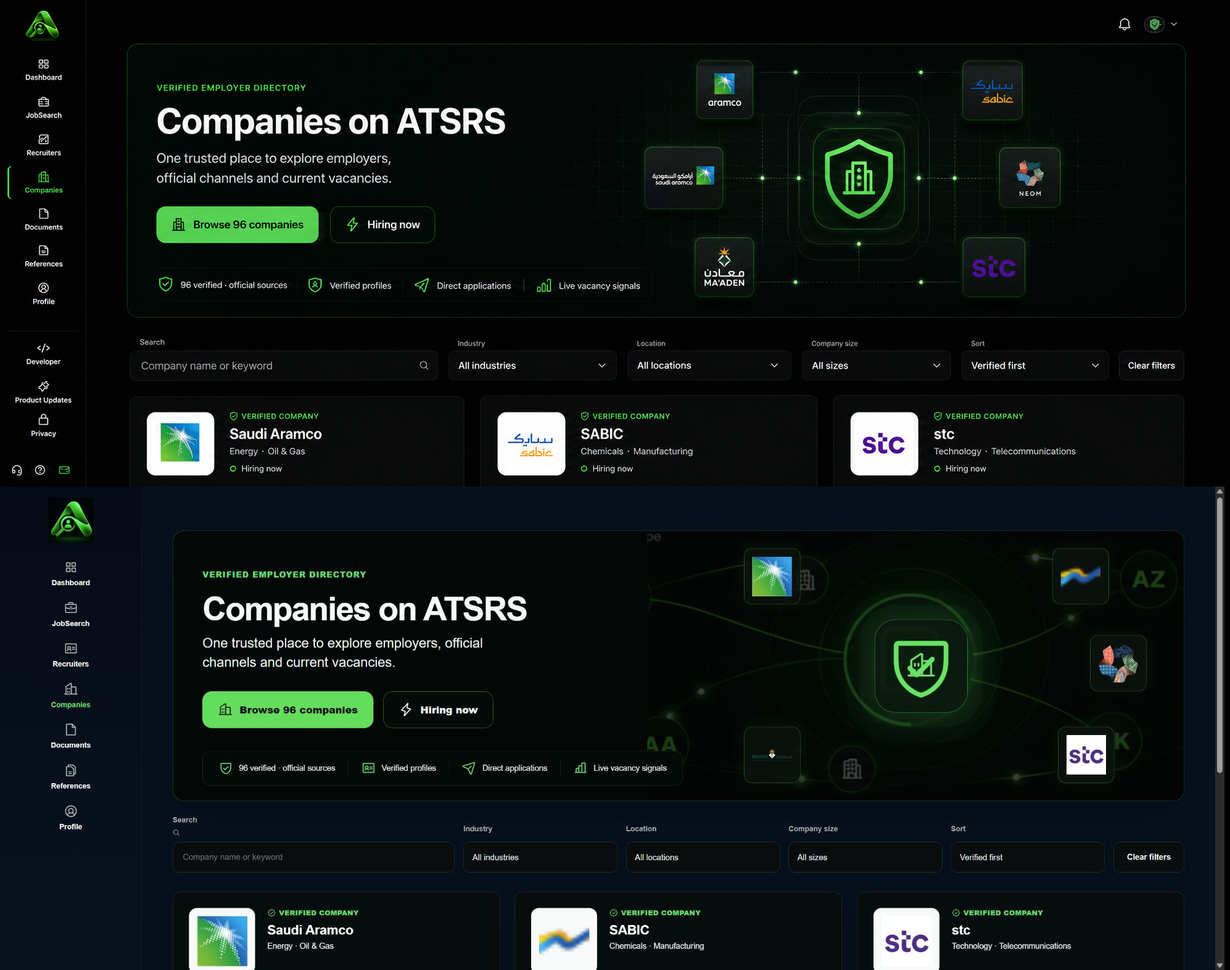
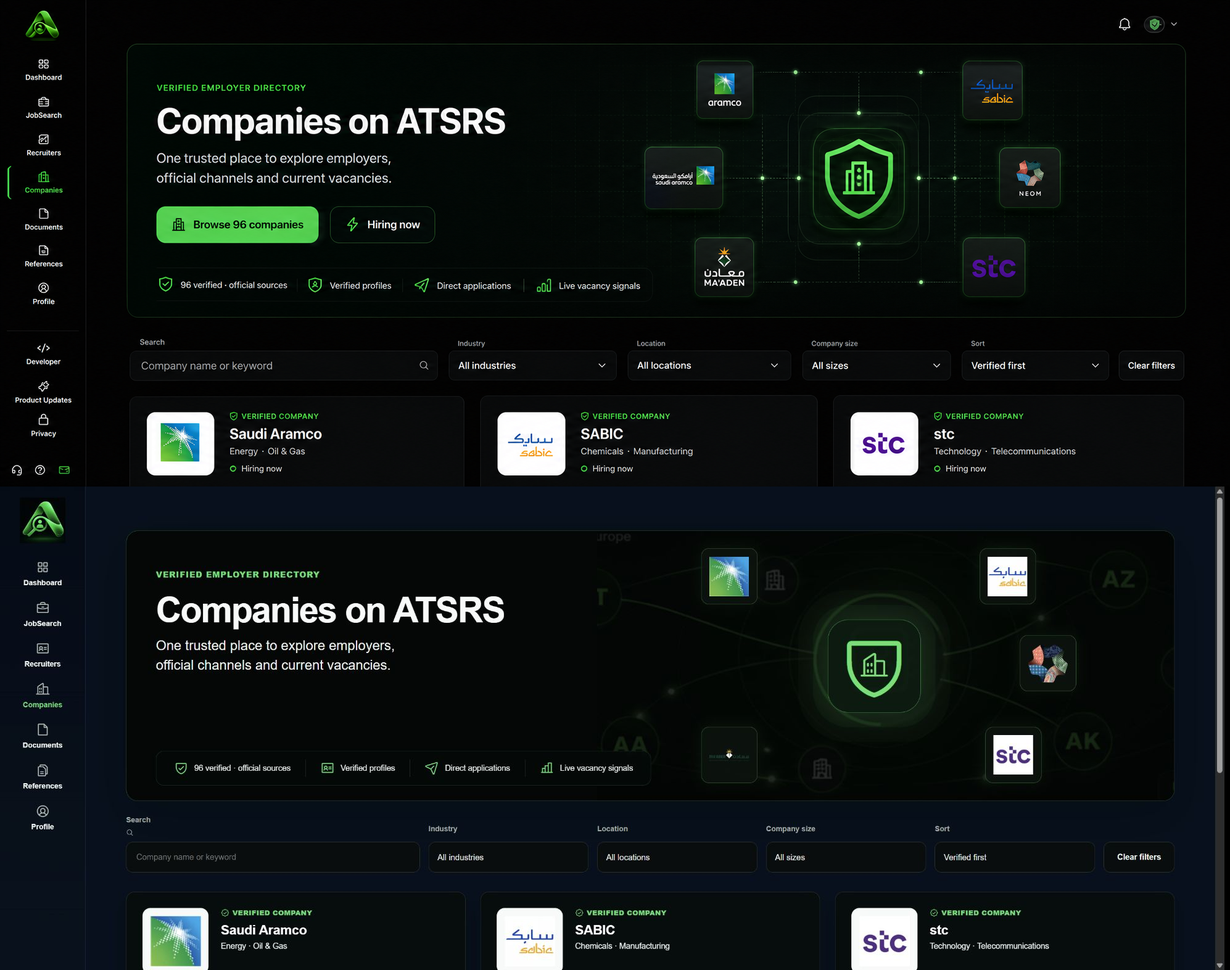
Match company directory reference layout

diff --git a/css/company-directory-v6034.css b/css/company-directory-v6034.css
@@ -1,37 +1,33 @@
 /* ATSRS Companies Directory V6034 — verified employer network. */
 body:has(#employersPage:not(.hidden)) #app.app:not(.hidden)>.main>#pageTitle{display:none!important}
-#employersPage.employers-page{gap:24px;width:100%;max-width:1720px;margin:0 auto;padding:0 0 42px}
-#employersPage .company-directory-hero{position:relative;display:grid;grid-template-columns:minmax(560px,.92fr) minmax(620px,1.08fr);align-items:stretch;gap:28px;min-height:442px;padding:0;overflow:hidden;border:1px solid rgba(72,212,107,.32);border-radius:19px;background:#030706;box-shadow:0 24px 70px rgba(0,0,0,.2)}
-#employersPage .company-hero-copy{position:relative;z-index:2;display:flex;flex-direction:column;min-width:0;padding:62px 0 25px 48px}
-#employersPage .company-hero-eyebrow{color:#48df70;font-size:13px;font-weight:900;letter-spacing:.08em;text-transform:uppercase}
-#employersPage .company-hero-copy h1{margin:20px 0 12px!important;color:#f7faf8!important;-webkit-text-fill-color:#f7faf8!important;font-size:54px!important;line-height:1.02!important;letter-spacing:-.035em!important}
-#employersPage .company-hero-copy>p{max-width:520px;margin:0!important;color:#edf2ef!important;font-size:22px!important;line-height:1.45!important}
-#employersPage .company-hero-actions{display:flex;align-items:center;gap:16px;margin-top:31px}
-html[data-theme] body #app.app:not(.hidden) #employersPage .company-hero-actions button{display:inline-flex!important;align-items:center!important;justify-content:center!important;gap:12px!important;width:auto!important;min-height:60px!important;margin:0!important;padding:0 25px!important;border:1px solid rgba(72,212,107,.45)!important;border-radius:15px!important;background:rgba(3,12,7,.7)!important;color:#f6faf7!important;font-size:16px!important;font-weight:800!important;box-shadow:none!important}
-html[data-theme] body #app.app:not(.hidden) #employersPage .company-hero-actions button:first-child{border-color:#48df70!important;background:#4cdd63!important;color:#061008!important}
-#employersPage .company-hero-actions button i{font-size:23px}
-#employersPage .company-trust-strip{display:flex;align-items:center;gap:0;width:max-content;max-width:calc(100% + 250px);margin-top:auto;padding:13px 5px;border:1px solid rgba(72,212,107,.18);border-radius:13px;background:rgba(3,10,7,.66);backdrop-filter:blur(12px);-webkit-backdrop-filter:blur(12px)}
-#employersPage .company-trust-strip>span{display:flex;align-items:center;gap:10px;min-height:29px;padding:0 21px;border-left:1px solid rgba(255,255,255,.14);color:#e9efeb;font-size:13px;white-space:nowrap}
+#employersPage.employers-page{gap:24px;width:calc(100% - 64px);max-width:none;margin:0 auto;padding:0 0 42px}
+#employersPage .company-directory-hero{position:relative;display:grid;grid-template-columns:minmax(560px,.88fr) minmax(620px,1.12fr);align-items:stretch;gap:28px;min-height:clamp(442px,16vw,552px);padding:0;overflow:hidden;border:1px solid rgba(72,212,107,.32);border-radius:19px;background:#030706;box-shadow:0 24px 70px rgba(0,0,0,.2)}
+#employersPage .company-hero-copy{position:relative;z-index:2;display:flex;flex-direction:column;min-width:0;padding:clamp(62px,2.3vw,78px) 0 clamp(25px,.9vw,31px) clamp(48px,1.8vw,60px)}
+#employersPage .company-hero-eyebrow{color:#48df70;font-size:clamp(13px,.48vw,16px);font-weight:900;letter-spacing:.08em;text-transform:uppercase}
+#employersPage .company-hero-copy h1{margin:clamp(20px,.75vw,25px) 0 12px!important;color:#f7faf8!important;-webkit-text-fill-color:#f7faf8!important;font-size:clamp(58px,2.1vw,72px)!important;line-height:1.02!important;letter-spacing:-.035em!important;white-space:nowrap}
+#employersPage .company-hero-copy>p{max-width:clamp(400px,14.6vw,500px);margin:0!important;color:#edf2ef!important;font-size:clamp(22px,.8vw,27px)!important;line-height:1.45!important}
+#employersPage .company-trust-strip{display:flex;align-items:center;gap:0;width:max-content;max-width:calc(100% + 250px);margin-top:auto;padding:clamp(13px,.48vw,16px) 5px;border:1px solid rgba(72,212,107,.18);border-radius:13px;background:rgba(3,10,7,.66);backdrop-filter:blur(12px);-webkit-backdrop-filter:blur(12px)}
+#employersPage .company-trust-strip>span{display:flex;align-items:center;gap:10px;min-height:clamp(29px,1.05vw,36px);padding:0 clamp(24px,.76vw,26px);border-left:1px solid rgba(255,255,255,.14);color:#e9efeb;font-size:clamp(13px,.48vw,16px);white-space:nowrap}
 #employersPage .company-trust-strip>span:first-child{border-left:0}
 #employersPage .company-trust-strip i{color:#48df70;font-size:23px}
 #employersPage .company-trust-strip strong{font-weight:500}
 #employersPage .company-hero-network{position:relative;min-width:0;overflow:hidden;background:#020605}
-#employersPage .company-network-backdrop{position:absolute;inset:-24px -40px -22px -50px;background:url('../assets/recruiters/recruiter-directory-orbit-v1.png') center/cover no-repeat;opacity:.24;filter:contrast(1.15) saturate(1.1)}
-#employersPage .company-network-core{position:absolute;z-index:2;top:50%;left:51%;display:grid;place-items:center;width:152px;height:152px;border:1px solid rgba(72,223,112,.5);border-radius:34px;background:rgba(9,29,16,.88);color:#55e16d;box-shadow:0 0 0 24px rgba(72,223,112,.035),0 0 0 48px rgba(72,223,112,.025),0 0 48px rgba(72,223,112,.19);transform:translate(-50%,-50%)}
-#employersPage .company-network-core .ph-shield{font-size:118px}
-#employersPage .company-network-core .ph-buildings{position:absolute;font-size:47px}
-#employersPage .company-network-logo{position:absolute;z-index:3;display:grid;place-items:center;width:92px;height:92px;padding:13px;overflow:hidden;border:1px solid rgba(72,212,107,.35);border-radius:13px;background:rgba(10,18,13,.9);box-shadow:0 8px 30px rgba(0,0,0,.35),0 0 22px rgba(72,212,107,.09)}
+#employersPage .company-network-backdrop{position:absolute;inset:-24px -40px -22px -50px;background:url('../assets/recruiters/recruiter-directory-orbit-v1.png') center/cover no-repeat;opacity:.14;filter:contrast(1.08) saturate(1.05)}
+#employersPage .company-network-core{position:absolute;z-index:2;top:50%;left:48%;display:grid;place-items:center;width:clamp(152px,5.55vw,190px);height:clamp(152px,5.55vw,190px);border:1px solid rgba(72,223,112,.5);border-radius:clamp(34px,1.25vw,42px);background:rgba(9,29,16,.88);color:#55e16d;box-shadow:0 0 0 24px rgba(72,223,112,.035),0 0 0 48px rgba(72,223,112,.025),0 0 48px rgba(72,223,112,.19);transform:translate(-50%,-50%)}
+#employersPage .company-network-core .ph-shield{font-size:clamp(118px,4.3vw,148px)}
+#employersPage .company-network-core .ph-buildings{position:absolute;font-size:clamp(47px,1.72vw,59px)}
+#employersPage .company-network-logo{position:absolute;z-index:3;display:grid;place-items:center;width:clamp(92px,3.35vw,115px);height:clamp(92px,3.35vw,115px);padding:clamp(13px,.47vw,16px);overflow:hidden;border:1px solid rgba(72,212,107,.35);border-radius:13px;background:rgba(10,18,13,.9);box-shadow:0 8px 30px rgba(0,0,0,.35),0 0 22px rgba(72,212,107,.09)}
 #employersPage .company-network-logo img{display:block;width:100%;height:100%;object-fit:contain}
-#employersPage .company-network-aramco{top:28px;left:18%}#employersPage .company-network-sabic{top:28px;right:14%}#employersPage .company-network-neom{top:170px;right:7%}#employersPage .company-network-maaden{bottom:29px;left:18%}#employersPage .company-network-stc{right:13%;bottom:29px}
+#employersPage .company-network-aramco{top:28px;left:18%}#employersPage .company-network-sabic{top:28px;right:24%}#employersPage .company-network-neom{top:170px;right:17%}#employersPage .company-network-maaden{bottom:29px;left:18%}#employersPage .company-network-stc{right:23%;bottom:29px}
 #employersPage .employers-toolbar{grid-template-columns:minmax(300px,1.65fr) repeat(4,minmax(150px,.9fr)) 116px;align-items:end;gap:14px;padding:0;border:0;border-radius:0;background:transparent}
 #employersPage .employers-toolbar :is(.atsrs-search-field,.employers-sector){display:grid;gap:7px;color:#a9b3ad;font-size:12px;font-weight:700}
-#employersPage .employers-toolbar :is(input,select),html[data-theme] body #app.app:not(.hidden) #employersPage #employersClearFilters{height:50px!important;min-height:50px!important;border:1px solid #29322d!important;border-radius:11px!important;background:rgba(9,13,11,.88)!important;color:#edf2ef!important;box-shadow:none!important}
+#employersPage .employers-toolbar :is(input,select),html[data-theme] body #app.app:not(.hidden) #employersPage #employersClearFilters{height:clamp(50px,1.8vw,62px)!important;min-height:clamp(50px,1.8vw,62px)!important;border:1px solid #29322d!important;border-radius:11px!important;background:rgba(9,13,11,.88)!important;color:#edf2ef!important;box-shadow:none!important}
 #employersPage .employers-toolbar input{padding:0 45px 0 16px!important}
 #employersPage .employers-toolbar select{padding:0 39px 0 14px!important}
 html[data-theme] body #app.app:not(.hidden) #employersPage #employersClearFilters{top:0!important;width:116px!important;padding:0 13px!important;font-size:13px!important}
 #employersPage .employers-message:empty{display:none}
 #employersPage .employers-grid{grid-template-columns:repeat(3,minmax(0,1fr));gap:18px 24px}
-#employersPage .employer-card{grid-template-columns:108px minmax(0,1fr)!important;grid-template-rows:auto auto auto!important;column-gap:20px!important;row-gap:8px!important;min-height:232px!important;padding:26px 26px 18px!important;border:1px solid rgba(135,151,142,.25)!important;border-radius:14px!important;background:rgba(7,11,9,.82)!important;box-shadow:0 15px 34px rgba(0,0,0,.18)!important;backdrop-filter:blur(12px);-webkit-backdrop-filter:blur(12px)}
+#employersPage .employer-card{grid-template-columns:108px minmax(0,1fr)!important;grid-template-rows:auto auto auto!important;column-gap:20px!important;row-gap:8px!important;min-height:clamp(232px,8.45vw,290px)!important;padding:clamp(26px,.93vw,32px) clamp(26px,.93vw,32px) clamp(18px,.67vw,23px)!important;border:1px solid rgba(135,151,142,.25)!important;border-radius:14px!important;background:rgba(7,11,9,.82)!important;box-shadow:0 15px 34px rgba(0,0,0,.18)!important;backdrop-filter:blur(12px);-webkit-backdrop-filter:blur(12px)}
 #employersPage .employer-card::before{width:0!important}
 #employersPage .employer-card-head{display:contents!important}
 #employersPage .employer-mark{grid-column:1!important;grid-row:1!important;width:108px!important;height:108px!important;padding:12px!important;border-color:rgba(72,212,107,.24)!important;border-radius:13px!important;background:#f8faf9!important}
@@ -52,7 +48,6 @@ html[data-theme] body #app.app:not(.hidden) #employersPage #employersClearFilter
 #employersPage .employer-actions :is(a:nth-child(3),a:nth-child(4)){display:none!important}
 #employersPage .employer-actions .employer-action-jobs{grid-column:auto!important;justify-content:center!important;width:100%!important;min-width:0!important;border:1px solid rgba(72,212,107,.35)!important;background:rgba(72,212,107,.06)!important}
 #employersPage .employers-pagination{justify-content:center;margin-top:6px}
-#employersPage .company-hero-actions button.active{outline:2px solid rgba(72,223,112,.45);outline-offset:3px}
 html[data-theme="light"] #employersPage .company-directory-hero{border-color:#b9cee8;background:#f8fbff;box-shadow:0 22px 55px rgba(35,76,120,.1)}
 html[data-theme="light"] #employersPage .company-hero-copy h1{color:#17335f!important;-webkit-text-fill-color:#17335f!important}
 html[data-theme="light"] #employersPage .company-hero-copy>p{color:#526b8d!important}
@@ -69,8 +64,7 @@ html[data-theme="light"] #employersPage .employer-card{border-color:#d3deeb!impo
 html[data-theme="light"] #employersPage .employer-sector-label{color:#3f5879!important}
 html[data-theme="light"] #employersPage .employer-actions{border-color:#dce5ef!important}
 @media(max-width:1420px){#employersPage .company-directory-hero{grid-template-columns:minmax(500px,.92fr) minmax(520px,1.08fr)}#employersPage .company-hero-copy{padding-left:34px}#employersPage .company-hero-copy h1{font-size:46px!important}#employersPage .company-trust-strip>span{padding-inline:14px}#employersPage .employers-toolbar{grid-template-columns:minmax(280px,1.5fr) repeat(2,minmax(150px,1fr))}#employersPage .employers-toolbar>:nth-child(4),#employersPage .employers-toolbar>:nth-child(5){grid-row:2}html[data-theme] body #app.app:not(.hidden) #employersPage #employersClearFilters{grid-row:2}.employers-grid{grid-template-columns:repeat(2,minmax(0,1fr))!important}}
-@media(max-width:980px){#employersPage .company-directory-hero{grid-template-columns:1fr;min-height:0}#employersPage .company-hero-copy{padding:42px 28px 28px}#employersPage .company-hero-network{min-height:360px}#employersPage .company-trust-strip{width:100%;max-width:100%;margin-top:30px;overflow-x:auto}#employersPage .employers-toolbar{grid-template-columns:1fr 1fr}html[data-theme] body #app.app:not(.hidden) #employersPage #employersClearFilters{grid-row:auto;width:100%!important}.employers-grid{grid-template-columns:1fr!important}}
-@media(max-width:620px){#employersPage .company-hero-copy h1{font-size:38px!important}#employersPage .company-hero-copy>p{font-size:17px!important}#employersPage .company-hero-actions{align-items:stretch;flex-direction:column}html[data-theme] body #app.app:not(.hidden) #employersPage .company-hero-actions button{width:100%!important}#employersPage .company-hero-network{min-height:310px}#employersPage .company-network-logo{width:70px;height:70px;padding:9px}#employersPage .company-network-core{width:120px;height:120px}#employersPage .company-network-core .ph-shield{font-size:90px}#employersPage .company-network-core .ph-buildings{font-size:35px}#employersPage .employers-toolbar{grid-template-columns:1fr}#employersPage .employer-card{grid-template-columns:82px minmax(0,1fr)!important;padding:20px!important}#employersPage .employer-mark{width:82px!important;height:82px!important}#employersPage .employer-logo{width:62px!important;height:62px!important}}
+@media(max-width:980px){#employersPage.employers-page{width:100%}#employersPage .company-directory-hero{grid-template-columns:1fr;min-height:0}#employersPage .company-hero-copy{padding:42px 28px 28px}#employersPage .company-hero-network{min-height:360px}#employersPage .company-trust-strip{width:100%;max-width:100%;margin-top:30px;overflow-x:auto}#employersPage .employers-toolbar{grid-template-columns:1fr 1fr}html[data-theme] body #app.app:not(.hidden) #employersPage #employersClearFilters{grid-row:auto;width:100%!important}.employers-grid{grid-template-columns:1fr!important}}
+@media(max-width:620px){#employersPage .company-hero-copy h1{font-size:38px!important}#employersPage .company-hero-copy>p{font-size:17px!important}#employersPage .company-hero-network{min-height:310px}#employersPage .company-network-logo{width:70px;height:70px;padding:9px}#employersPage .company-network-core{width:120px;height:120px}#employersPage .company-network-core .ph-shield{font-size:90px}#employersPage .company-network-core .ph-buildings{font-size:35px}#employersPage .employers-toolbar{grid-template-columns:1fr}#employersPage .employer-card{grid-template-columns:82px minmax(0,1fr)!important;padding:20px!important}#employersPage .employer-mark{width:82px!important;height:82px!important}#employersPage .employer-logo{width:62px!important;height:62px!important}}
 html[data-theme="dark"] body:where(.personal-mode,.company-mode) #app#app.app:not(.hidden)>.main #employersPage#employersPage .company-hero-copy h1{color:#f7faf8!important;-webkit-text-fill-color:#f7faf8!important}
 html[data-theme="light"] body:where(.personal-mode,.company-mode) #app#app.app:not(.hidden)>.main #employersPage#employersPage .company-hero-copy h1{color:#17335f!important;-webkit-text-fill-color:#17335f!important}
-html[data-theme] body #app#app.app:not(.hidden)>.main #employersPage#employersPage .company-hero-actions button:first-child{border-color:#48df70!important;background:#4cdd63!important;color:#061008!important;-webkit-text-fill-color:#061008!important}

diff --git a/qa/company-directory-v6034-preview.html b/qa/company-directory-v6034-preview.html
@@ -1,10 +1,10 @@
 <!doctype html><html lang="en" data-theme="dark"><head><meta charset="utf-8"><meta name="viewport" content="width=device-width,initial-scale=1"><title>Companies Directory V6034</title>
 <link rel="stylesheet" href="../css/base.css"><link rel="stylesheet" href="../css/theme.css"><link rel="stylesheet" href="../css/jobs-prototype.css"><link rel="stylesheet" href="../css/employers.css"><link rel="stylesheet" href="../css/company-directory-v6034.css"><link rel="stylesheet" href="../vendor/phosphor-icons/phosphor-regular.css">
-<style>body{margin:0;background:#020605}.app{display:grid!important;grid-template-columns:140px minmax(0,1fr);min-height:100vh}.sidebar{position:relative!important;width:140px!important;display:flex;flex-direction:column;align-items:center;padding:18px 10px;border-right:1px solid #1b2520}.sidebar img{width:74px}.sidebar nav{display:grid;gap:22px;margin-top:28px;text-align:center}.sidebar a{color:#eef4f0;text-decoration:none;font:700 12px/1.2 Arial}.sidebar i{display:block;margin-bottom:7px;color:#aebbb3;font-size:23px}.sidebar a.active{color:#48df70}.main{padding:72px 50px 40px!important;min-width:0}.employers-page{display:grid!important}.employer-actions a:nth-child(1),.employer-actions a:nth-child(2){display:flex;align-items:center;justify-content:center;color:#eaf1ec;text-decoration:none;border:1px solid #28332d;border-radius:9px}.jobs-pagination{display:flex}.jobs-page-button{min-width:38px;height:38px;border:1px solid #2b3730;border-radius:9px;background:#0a0f0c;color:#eaf1ec}.jobs-page-button.active{border-color:#48df70;color:#48df70}</style></head><body>
-<div id="app" class="app"><aside class="sidebar"><img src="../assets/branding/atsrs-mark-green.png" alt="ATSRS"><nav><a href="#"><i class="ph ph-squares-four"></i>Dashboard</a><a href="#"><i class="ph ph-briefcase"></i>JobSearch</a><a href="#"><i class="ph ph-identification-card"></i>Recruiters</a><a class="active" href="#"><i class="ph ph-buildings"></i>Companies</a><a href="#"><i class="ph ph-file"></i>Documents</a><a href="#"><i class="ph ph-files"></i>References</a><a href="#"><i class="ph ph-user-circle"></i>Profile</a></nav></aside><main class="main">
+<style>body{margin:0;background:#020605}#app.app{display:grid!important;grid-template-columns:140px minmax(0,1fr)!important;min-height:100vh}.app>.sidebar{position:relative!important;width:140px!important;min-width:140px!important;display:flex;flex-direction:column;align-items:center;padding:18px 10px;border-right:1px solid #1b2520}.sidebar img{width:74px}.sidebar nav{display:grid;gap:22px;margin-top:28px;text-align:center}.sidebar a{color:#eef4f0;text-decoration:none;font:700 12px/1.2 Arial}.sidebar i{display:block;margin-bottom:7px;color:#aebbb3;font-size:23px}.sidebar a.active{color:#48df70}.main{padding:72px 34px 40px!important;min-width:0}.employers-page{display:grid!important}.employer-actions a:nth-child(1),.employer-actions a:nth-child(2){display:flex;align-items:center;justify-content:center;color:#eaf1ec;text-decoration:none;border:1px solid #28332d;border-radius:9px}.jobs-pagination{display:flex}.jobs-page-button{min-width:38px;height:38px;border:1px solid #2b3730;border-radius:9px;background:#0a0f0c;color:#eaf1ec}.jobs-page-button.active{border-color:#48df70;color:#48df70}</style></head><body>
+<div id="app" class="app" style="grid-template-columns:140px minmax(0,1fr)!important"><aside class="sidebar" style="width:140px!important;min-width:140px!important"><img src="../assets/branding/atsrs-mark-green.png" alt="ATSRS"><nav><a href="#"><i class="ph ph-squares-four"></i>Dashboard</a><a href="#"><i class="ph ph-briefcase"></i>JobSearch</a><a href="#"><i class="ph ph-identification-card"></i>Recruiters</a><a class="active" href="#"><i class="ph ph-buildings"></i>Companies</a><a href="#"><i class="ph ph-file"></i>Documents</a><a href="#"><i class="ph ph-files"></i>References</a><a href="#"><i class="ph ph-user-circle"></i>Profile</a></nav></aside><main class="main">
 <section id="employersPage" class="employers-page" aria-label="Companies">
-  <header class="employers-hero company-directory-hero"><div class="company-hero-copy"><span class="company-hero-eyebrow">Verified employer directory</span><h1>Companies on ATSRS</h1><p>One trusted place to explore employers, official channels and current vacancies.</p><div class="company-hero-actions"><button><i class="ph ph-buildings"></i><span>Browse 96 companies</span></button><button><i class="ph ph-lightning"></i><span>Hiring now</span></button></div><div class="company-trust-strip"><span><i class="ph ph-shield-check"></i><strong>96 verified · official sources</strong></span><span><i class="ph ph-identification-card"></i>Verified profiles</span><span><i class="ph ph-paper-plane-tilt"></i>Direct applications</span><span><i class="ph ph-chart-bar"></i>Live vacancy signals</span></div></div><div class="company-hero-network"><div class="company-network-backdrop"></div><div class="company-network-core"><i class="ph ph-shield"></i><i class="ph ph-buildings"></i></div><div class="company-network-logo company-network-aramco"><img src="../assets/company-logos/saudi-aramco.jpg" alt="Saudi Aramco"></div><div class="company-network-logo company-network-sabic"><img src="../assets/company-logos/sabic.png" alt="SABIC"></div><div class="company-network-logo company-network-neom"><img src="../assets/company-logos/neom.png" alt="NEOM"></div><div class="company-network-logo company-network-maaden"><img src="../assets/company-logos/maaden.svg" alt="Ma'aden"></div><div class="company-network-logo company-network-stc"><img src="../assets/company-logos/stc.jpg" alt="stc"></div></div></header>
+  <header class="employers-hero company-directory-hero"><div class="company-hero-copy"><span class="company-hero-eyebrow">Verified employer directory</span><h1>Companies on ATSRS</h1><p>One trusted place to explore employers, official channels and current vacancies.</p><div class="company-trust-strip"><span><i class="ph ph-shield-check"></i><strong>96 verified · official sources</strong></span><span><i class="ph ph-identification-card"></i>Verified profiles</span><span><i class="ph ph-paper-plane-tilt"></i>Direct applications</span><span><i class="ph ph-chart-bar"></i>Live vacancy signals</span></div></div><div class="company-hero-network"><div class="company-network-backdrop"></div><div class="company-network-core"><i class="ph ph-shield"></i><i class="ph ph-buildings"></i></div><div class="company-network-logo company-network-aramco"><img src="../assets/company-logos/saudi-aramco.jpg" alt="Saudi Aramco"></div><div class="company-network-logo company-network-sabic"><img src="../assets/company-logos/sabic-reference.jpg" alt="SABIC"></div><div class="company-network-logo company-network-neom"><img src="../assets/company-logos/neom.png" alt="NEOM"></div><div class="company-network-logo company-network-maaden"><img src="../assets/company-logos/maaden.svg" alt="Ma'aden"></div><div class="company-network-logo company-network-stc"><img src="../assets/company-logos/stc.jpg" alt="stc"></div></div></header>
   <div class="employers-toolbar"><label class="atsrs-search-field"><span>Search</span><span class="atsrs-search-control"><i class="ph ph-magnifying-glass"></i><input placeholder="Company name or keyword"></span></label><label class="employers-sector"><span>Industry</span><select><option>All industries</option></select></label><label class="employers-sector"><span>Location</span><select><option>All locations</option></select></label><label class="employers-sector"><span>Company size</span><select><option>All sizes</option></select></label><label class="employers-sector"><span>Sort</span><select><option>Verified first</option></select></label><button id="employersClearFilters">Clear filters</button></div>
   <div class="employers-grid" id="employersGrid"></div><nav class="jobs-pagination employers-pagination"><button class="jobs-page-button active">1</button><button class="jobs-page-button">2</button><button class="jobs-page-button">3</button><button class="jobs-page-button">Next</button></nav>
 </section></main></div>
-<script>const data=[['Saudi Aramco','Energy · Oil & Gas','saudi-aramco.jpg'],['SABIC','Chemicals · Manufacturing','sabic.png'],['stc','Technology · Telecommunications','stc.jpg'],['NEOM','Development · Infrastructure','neom.png'],["Ma'aden",'Mining · Materials','maaden.svg'],['Airswift','Workforce Solutions','']];const grid=document.querySelector('#employersGrid');data.forEach(([name,sector,logo],i)=>{const a=document.createElement('article');a.className='employer-card';a.innerHTML=`<div class="employer-card-head"><div class="employer-mark">${logo?`<img class="employer-logo" src="../assets/company-logos/${logo}" alt="">`:`<span class="employer-mark-fallback">${name.slice(0,2).toUpperCase()}</span>`}</div><div class="employer-card-copy"><span class="employer-source"><i class="ph ph-seal-check"></i> Verified company</span><h4>${name}</h4><strong class="employer-sector-label">${sector}</strong><p></p></div></div><div class="employer-vacancy-panel"><span><i class="ph ph-circle"></i>${i<3?'Hiring now':'Official careers source'}</span><strong>0</strong><span></span></div><div class="employer-tags"></div><div class="employer-actions"><a href="#"><i class="ph ph-arrow-square-out"></i><span>Website</span></a><a href="#"><i class="ph ph-briefcase"></i><span>Careers</span></a></div>`;grid.append(a)});</script></body></html>
+<script>const data=[['Saudi Aramco','Energy · Oil & Gas','saudi-aramco.jpg'],['SABIC','Chemicals · Manufacturing','sabic-reference.jpg'],['stc','Technology · Telecommunications','stc.jpg'],['NEOM','Development · Infrastructure','neom.png'],["Ma'aden",'Mining · Materials','maaden.svg'],['Airswift','Workforce Solutions','']];const grid=document.querySelector('#employersGrid');data.forEach(([name,sector,logo],i)=>{const a=document.createElement('article');a.className='employer-card';a.innerHTML=`<div class="employer-card-head"><div class="employer-mark">${logo?`<img class="employer-logo" src="../assets/company-logos/${logo}" alt="">`:`<span class="employer-mark-fallback">${name.slice(0,2).toUpperCase()}</span>`}</div><div class="employer-card-copy"><span class="employer-source"><i class="ph ph-seal-check"></i> Verified company</span><h4>${name}</h4><strong class="employer-sector-label">${sector}</strong><p></p></div></div><div class="employer-vacancy-panel"><span><i class="ph ph-circle"></i>${i<3?'Hiring now':'Official careers source'}</span><strong>0</strong><span></span></div><div class="employer-tags"></div><div class="employer-actions"><a href="#"><i class="ph ph-arrow-square-out"></i><span>Website</span></a><a href="#"><i class="ph ph-briefcase"></i><span>Careers</span></a></div>`;grid.append(a)});</script></body></html>

diff --git a/index.html b/index.html
@@ -114,7 +114,7 @@ html[data-theme="light"] body{background:#f6f8fb}
 <link rel="stylesheet" href="css/theme-palette-v508.css?v=5849">
 <link rel="stylesheet" href="css/jobs-prototype.css?v=5997">
 <link rel="stylesheet" href="css/employers.css?v=34">
-<link rel="stylesheet" href="css/company-directory-v6034.css?v=6035">
+<link rel="stylesheet" href="css/company-directory-v6034.css?v=6036">
 <link rel="stylesheet" href="css/view-switch-standard-v58144.css?v=58144">
 <link rel="stylesheet" href="css/dark-green-text-standard-v58140.css?v=58140">
 <link rel="stylesheet" href="css/button-content-standard-v58148.css?v=58148">
@@ -991,10 +991,6 @@ body.atsrs-session-pending #atsrsBootScreen{display:flex!important;}
       <span class="company-hero-eyebrow">Verified employer directory</span>
       <h1>Companies on ATSRS</h1>
       <p>One trusted place to explore employers, official channels and current vacancies.</p>
-      <div class="company-hero-actions">
-        <button id="employersBrowseAll" type="button"><i class="ph ph-buildings" aria-hidden="true"></i><span id="employersBrowseAllLabel">Browse companies</span></button>
-        <button id="employersHiringNow" type="button"><i class="ph ph-lightning" aria-hidden="true"></i><span>Hiring now</span></button>
-      </div>
       <div class="company-trust-strip" aria-label="Company directory trust indicators">
         <span><i class="ph ph-shield-check" aria-hidden="true"></i><strong id="employersVisibleCount" aria-live="polite">0 verified</strong></span>
         <span><i class="ph ph-identification-card" aria-hidden="true"></i>Verified profiles</span>
@@ -1006,7 +1002,7 @@ body.atsrs-session-pending #atsrsBootScreen{display:flex!important;}
       <div class="company-network-backdrop" aria-hidden="true"></div>
       <div class="company-network-core" aria-hidden="true"><i class="ph ph-shield"></i><i class="ph ph-buildings"></i></div>
       <div class="company-network-logo company-network-aramco"><img src="assets/company-logos/saudi-aramco.jpg" alt="Saudi Aramco"></div>
-      <div class="company-network-logo company-network-sabic"><img src="assets/company-logos/sabic.png" alt="SABIC"></div>
+      <div class="company-network-logo company-network-sabic"><img src="assets/company-logos/sabic-reference.jpg" alt="SABIC"></div>
       <div class="company-network-logo company-network-neom"><img src="assets/company-logos/neom.png" alt="NEOM"></div>
       <div class="company-network-logo company-network-maaden"><img src="assets/company-logos/maaden.svg" alt="Ma'aden"></div>
       <div class="company-network-logo company-network-stc"><img src="assets/company-logos/stc.jpg" alt="stc"></div>
@@ -2431,7 +2427,7 @@ body.atsrs-session-pending #atsrsBootScreen{display:flex!important;}
 <script src="js/dashboard.js?v=5930"></script>
 <script src="js/company-directory-links.js?v=4"></script>
 <script src="js/company-logo-assets.js?v=1"></script>
-<script src="js/employers.js?v=6034"></script>
+<script src="js/employers.js?v=6036"></script>
 <script src="js/recruiters.js?v=17"></script>
 <script src="js/avatar.js?v=394"></script>
 <script src="js/documents.js?v=410"></script>

diff --git a/js/employers.js b/js/employers.js
@@ -385,7 +385,7 @@
     },
     companyLogos = {
       "Saudi Aramco": "assets/company-logos/saudi-aramco.jpg",
-      SABIC: "assets/company-logos/sabic.png",
+      SABIC: "assets/company-logos/sabic-reference.jpg",
       NEOM: "assets/company-logos/neom.png",
       "Ma'aden": "assets/company-logos/maaden.svg",
       stc: "assets/company-logos/stc.jpg",
@@ -805,8 +805,6 @@
         .sort(function (a, b) { return a.name.localeCompare(b.name); });
       refreshSectorOptions();
       refreshLocationOptions();
-      var browseLabel = byId("employersBrowseAllLabel");
-      if (browseLabel) browseLabel.textContent = "Browse " + companies.length + " companies";
       var message = byId("employersMessage");
       if (message) message.textContent = "";
       if (directoryVisible()) render();
@@ -871,24 +869,6 @@
     byId("employersLocation").addEventListener("change", resetAndRender);
     byId("employersSize").addEventListener("change", resetAndRender);
     byId("employersSort").addEventListener("change", resetAndRender);
-    byId("employersBrowseAll").addEventListener("click", function () {
-      byId("employersSearch").value = "";
-      sector.value = "";
-      byId("employersLocation").value = "";
-      byId("employersSize").value = "";
-      hiringOnly = false;
-      byId("employersHiringNow").classList.remove("active");
-      companyPage = 1;
-      render();
-      byId("employersGrid").scrollIntoView({ behavior: "smooth", block: "start" });
-    });
-    byId("employersHiringNow").addEventListener("click", function () {
-      hiringOnly = !hiringOnly;
-      this.classList.toggle("active", hiringOnly);
-      companyPage = 1;
-      render();
-      byId("employersGrid").scrollIntoView({ behavior: "smooth", block: "start" });
-    });
     byId("employersClearFilters").addEventListener("click", function () {
       byId("employersSearch").value = "";
       sector.value = "";
@@ -896,7 +876,6 @@
       byId("employersSize").value = "";
       byId("employersSort").value = "verified";
       hiringOnly = false;
-      byId("employersHiringNow").classList.remove("active");
       companyPage = 1;
       render();
     });

diff --git a/qa/company-directory-v6034-design-qa.md b/qa/company-directory-v6034-design-qa.md
@@ -2,8 +2,11 @@
 
 - Reference viewport: 2000 × 790.
 - Hero hierarchy, two-column composition, verified-company network, filters and three-column company cards match the supplied reference.
+- The two hero CTA buttons were removed as requested, leaving the trust strip anchored at the bottom of the copy column.
 - Real company logo assets are used; icons come from the existing Phosphor icon library.
-- Search, industry, location, size, hiring-only and sort controls are wired to live directory data.
+- Search, industry, location, size and sort controls are wired to live directory data.
 - Directory results are capped at 30 companies per page and use the existing JobSearch pagination pattern.
 - Dark and light theme surfaces remain translucent and responsive.
 - Visual review: no P0, P1 or P2 issues found.
+
+final result: passed
